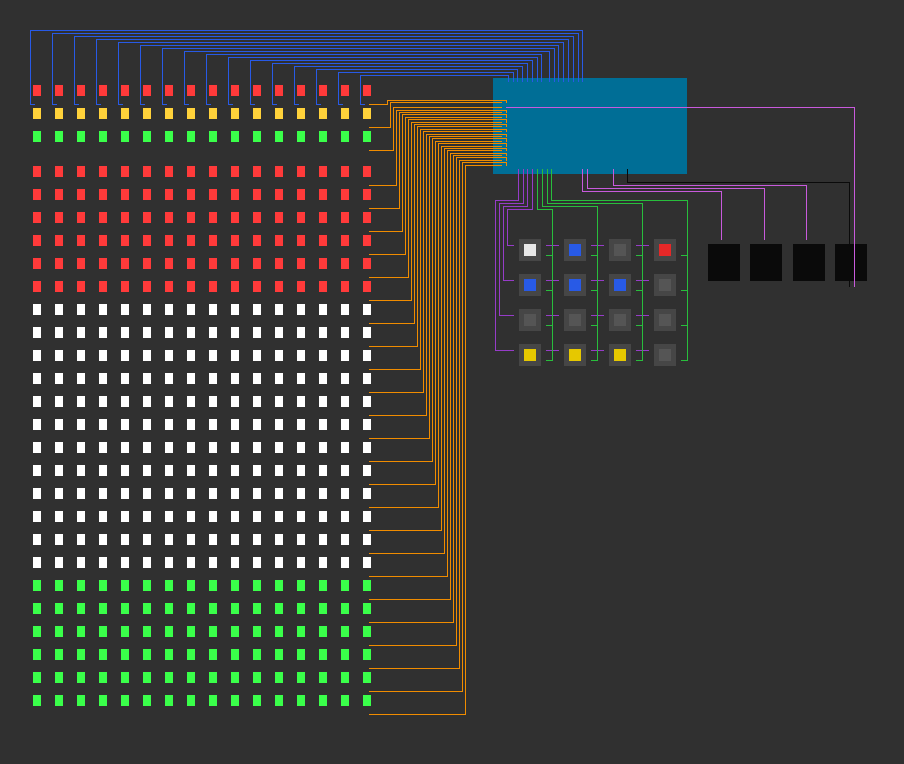
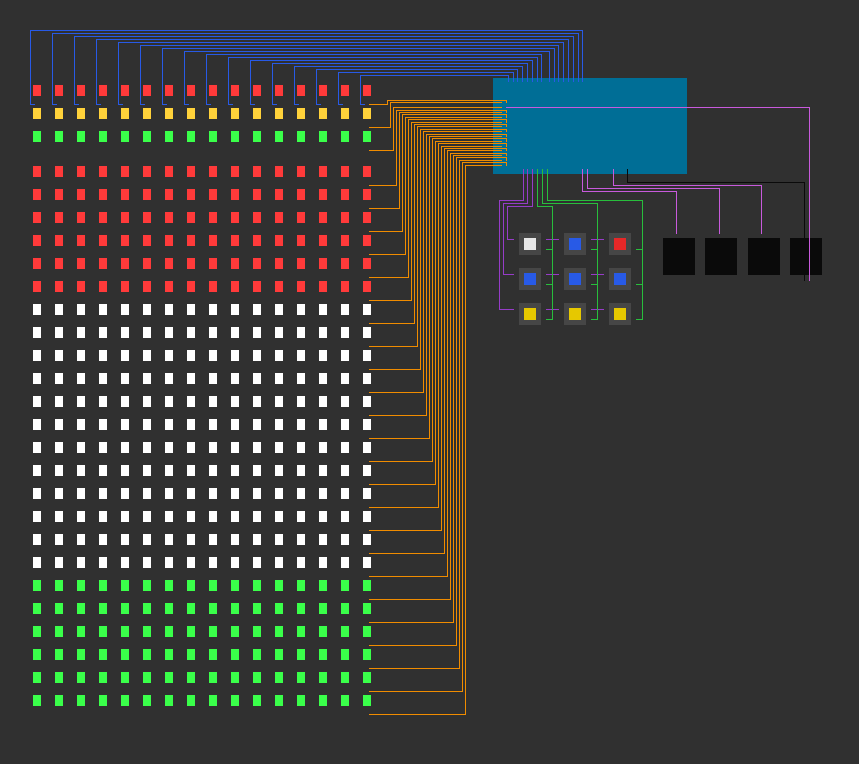
Keypad: 3 x 3, exactly the 9 keys the game uses
The 4 x 4 keypad had 7 spare keys. The generator now takes the keypad
size from its BUTTONS table: Q W R / A S D / P M B on rows 18-20 and
columns 15-17 (pins 21 and 14 are free). Circuit, pins.h, wiring diagram
and docs regenerated; wiring errors 0, crossings 0, PC tests pass.

Changed region(s): [[0.0303, 0.0301, 0.9686, 0.9332], [0.7567, 0.0903, 0.8172, 0.2408], [0.7264, 0.4516, 0.7567, 0.4817]]

diff --git a/tools/gen_circuit.py b/tools/gen_circuit.py
@@ -6,7 +6,8 @@ Builds the whole Wokwi circuit (diagram.json) from the tables below and writes t
 pin table for the sketch (pins.h), so the circuit and the code can never disagree.
 
   * 16 x 24 game screen + 3 status bars of single LEDs, wired as one row/column matrix
-  * 4 x 4 push-button keypad (every button also answers to a PC keyboard key)
+  * 3 x 3 push-button keypad: exactly the 9 keys the game uses (every button also answers
+    to a PC keyboard key)
   * 4 buzzers
 
 Layout: LED panel on the left, the Mega (turned 180 degrees) on the right with its
@@ -54,12 +55,13 @@ LED_GAMMA = '30'
 LED_FPS = '300'
 
 # Keypad, row by row: (label, PC keyboard key, button colour).
+# Q back, R fire / OK; W A S D move (W above S, like a keyboard); P pause, M sound, B light.
 BUTTONS = [
-    [('Q', 'q', 'white'), ('W', 'w', 'blue'), ('E', 'e', '#555555'), ('R', 'r', 'red')],
-    [('A', 'a', 'blue'), ('S', 's', 'blue'), ('D', 'd', 'blue'), ('F', 'f', '#555555')],
-    [('Z', 'z', '#555555'), ('X', 'x', '#555555'), ('C', 'c', '#555555'), ('V', 'v', '#555555')],
-    [('P', 'p', 'yellow'), ('M', 'm', 'yellow'), ('B', 'b', 'yellow'), ('H', 'h', '#555555')],
+    [('Q', 'q', 'white'), ('W', 'w', 'blue'), ('R', 'r', 'red')],
+    [('A', 'a', 'blue'), ('S', 's', 'blue'), ('D', 'd', 'blue')],
+    [('P', 'p', 'yellow'), ('M', 'm', 'yellow'), ('B', 'b', 'yellow')],
 ]
+KR, KC = len(BUTTONS), len(BUTTONS[0])               # keypad rows and columns
 
 # Visible wire colours by job (wires inside the LED panel are hidden).
 WIRE = {'row_bus': 'orange', 'col_bus': 'blue', 'key_row': 'purple', 'key_col': 'green',
@@ -140,8 +142,8 @@ ROW_PINS = [None] * TOTAL_ROWS
 for i, row in enumerate(PHYS_ROWS):
     ROW_PINS[row] = ROW_PIN_OF_PHYS[i]
 COL_PINS = ['A%d' % x for x in range(SCREEN_W)]      # column x -> Ax (PORTF / PORTK bit order)
-KEY_ROW_PINS = ['18', '19', '20', '21']
-KEY_COL_PINS = ['17', '16', '15', '14']
+KEY_ROW_PINS = ['18', '19', '20', '21'][:KR]
+KEY_COL_PINS = ['17', '16', '15', '14'][:KC]
 BUZZER_PINS = ['5', '6', '11', '46']                  # OC3A, OC4A, OC1A, OC5A
 BUZZER_TIMERS = ['Timer3 OC3A', 'Timer4 OC4A', 'Timer1 OC1A', 'Timer5 OC5A']
 
@@ -217,7 +219,7 @@ for i, row in enumerate(PHYS_ROWS):
 # --- keypad and buzzers under the Mega (wires come up into its lower header)
 BELOW = MY + MEGA_H                    # lower edge of the turned board
 KX, KPX, KPY = MX + 40, 90, 70
-BX, BPX = KX + 4 * KPX + 30, 85
+BX, BPX = KX + KC * KPX + 30, 85
 
 def fan_heights(items, top, step):
     """items: (lane_x, pin_x, key) of wires coming up from below. Returns a turn height per
@@ -232,30 +234,30 @@ def fan_heights(items, top, step):
 
 buz_top = BELOW + 16
 key_top = buz_top + LANE * 4 + 12
-KY = key_top + LANE * 8 + 30
+KY = key_top + LANE * (KR + KC) + 30
 BY = KY + 10
 
-for r in range(4):
-    for c in range(4):
+for r in range(KR):
+    for c in range(KC):
         label, key, colour = BUTTONS[r][c]
         part('wokwi-pushbutton', 'btn_%s' % label, KX + KPX * c, KY + KPY * r,
              {'color': colour, 'label': label, 'key': key})
-for r in range(4):                    # contact 1 of each button = its row line
-    for c in range(3):
+for r in range(KR):                   # contact 1 of each button = its row line
+    for c in range(KC - 1):
         wire('btn_%s:1.r' % BUTTONS[r][c][0], 'btn_%s:1.l' % BUTTONS[r][c + 1][0],
              WIRE['key_row'], [], 'link')
-for c in range(4):                    # contact 2 of each button = its column line
-    for r in range(3):
+for c in range(KC):                   # contact 2 of each button = its column line
+    for r in range(KR - 1):
         wire('btn_%s:2.r' % BUTTONS[r][c][0], 'btn_%s:2.r' % BUTTONS[r + 1][c][0],
              WIRE['key_col'], ['h11', '*', 'h11'], 'link')
 
 key_items = []                         # (lane, pin_x, key, src, pin, (x, y), first move, colour)
-for r in range(4):
+for r in range(KR):
     sx_, sy_ = KX + BTN_PINS['1.l'][0], KY + KPY * r + BTN_PINS['1.l'][1]
     lane = sx_ - 12 - 8 * r            # lower rows take outer lanes
     key_items.append((lane, mega_pin(KEY_ROW_PINS[r])[0], 'r%d' % r, 'btn_%s:1.l' % BUTTONS[r][0][0],
                       KEY_ROW_PINS[r], (sx_, sy_), mv('h', lane - sx_), WIRE['key_row']))
-for c in range(4):
+for c in range(KC):
     sx_, sy_ = KX + KPX * c + BTN_PINS['2.r'][0], KY + BTN_PINS['2.r'][1]
     key_items.append((sx_ + 11, mega_pin(KEY_COL_PINS[c])[0], 'c%d' % c, 'btn_%s:2.r' % BUTTONS[0][c][0],
                       KEY_COL_PINS[c], (sx_, sy_), 'h11', WIRE['key_col']))
@@ -357,8 +359,8 @@ def check_nets():
             pid = led_id(x, row)
             if mega_of.get(pid + ':A') != ROW_PINS[row] or mega_of.get(pid + ':C') != COL_PINS[x]:
                 errors += 1
-    for r in range(4):
-        for c in range(4):
+    for r in range(KR):
+        for c in range(KC):
             pid = 'btn_%s' % BUTTONS[r][c][0]
             if mega_of.get(pid + ':1.l') != KEY_ROW_PINS[r] or mega_of.get(pid + ':2.l') != KEY_COL_PINS[c]:
                 errors += 1
@@ -431,8 +433,8 @@ const uint8_t COL_PINS[SCREEN_W] = {{
   {arr(COL_PINS)}
 }};
 
-// ---- 4 x 4 push-button keypad: contact 1 = row line, contact 2 = column line
-const uint8_t KEY_ROWS = 4, KEY_COLS = 4;
+// ---- {KR} x {KC} push-button keypad: contact 1 = row line, contact 2 = column line
+const uint8_t KEY_ROWS = {KR}, KEY_COLS = {KC};
 const uint8_t KEY_ROW_PINS[KEY_ROWS] = {{ {arr(KEY_ROW_PINS)} }};
 const uint8_t KEY_COL_PINS[KEY_COLS] = {{ {arr(KEY_COL_PINS)} }};
 const char KEY_NAMES[KEY_ROWS][KEY_COLS] = {{

diff --git a/tools/draw_wiring.py b/tools/draw_wiring.py
@@ -65,8 +65,8 @@ text((MX + MW / 2, MY + 22), 'Arduino Mega 2560', F_HEAD, anchor='ma')
 headers = [  # (y, label, colour)
     (MY + 90, 'A0 - A15  -  16 LED columns (-)', BLUE),
     (MY + 200, 'pins %s  -  27 LED rows (+)' % pin_range(gc.ROW_PINS), ORANGE),
-    (MY + 330, 'pins 18-21  -  keypad rows', VIOLET),
-    (MY + 390, 'pins 14-17  -  keypad columns', GREEN),
+    (MY + 330, 'pins %s-%s  -  keypad rows' % (gc.KEY_ROW_PINS[0], gc.KEY_ROW_PINS[-1]), VIOLET),
+    (MY + 390, 'pins %s-%s  -  keypad columns' % (gc.KEY_COL_PINS[-1], gc.KEY_COL_PINS[0]), GREEN),
     (MY + 480, 'pins %s  -  buzzers' % ', '.join(gc.BUZZER_PINS), VIOLET),
     (MY + 545, 'GND  -  buzzers (-)', GREY),
 ]
@@ -107,24 +107,24 @@ text((LX, LY + 5 * P + 10),
 
 # ---------------------------------------------------------------- keypad
 KX, KY, KP = 1000, 150, 70
-text((KX, KY - 45), 'Keypad: 16 push buttons, 4 x 4', F_HEAD)
+text((KX, KY - 45), 'Keypad: %d push buttons, %d x %d' % (gc.KR * gc.KC, gc.KR, gc.KC), F_HEAD)
 labels = [b[0] for row in gc.BUTTONS for b in row]
-for r in range(4):
+for r in range(gc.KR):
     y = KY + 20 + r * KP
-    line([(KX - 30, y), (KX + 4 * KP - 20, y)], VIOLET, 2)
-    text((KX + 4 * KP - 10, y), 'row %d -> pin %s' % (r + 1, gc.KEY_ROW_PINS[r]), F_SMALL, VIOLET, 'lm')
-for c in range(4):
+    line([(KX - 30, y), (KX + gc.KC * KP - 20, y)], VIOLET, 2)
+    text((KX + gc.KC * KP - 10, y), 'row %d -> pin %s' % (r + 1, gc.KEY_ROW_PINS[r]), F_SMALL, VIOLET, 'lm')
+for c in range(gc.KC):
     x = KX + 20 + c * KP
-    line([(x + 18, KY), (x + 18, KY + 4 * KP + 10)], GREEN, 2)
-    text((x + 18, KY + 4 * KP + 14), 'pin %s' % gc.KEY_COL_PINS[c], F_SMALL, GREEN, 'ma')
-for r in range(4):
-    for c in range(4):
+    line([(x + 18, KY), (x + 18, KY + gc.KR * KP + 10)], GREEN, 2)
+    text((x + 18, KY + gc.KR * KP + 14), 'pin %s' % gc.KEY_COL_PINS[c], F_SMALL, GREEN, 'ma')
+for r in range(gc.KR):
+    for c in range(gc.KC):
         x, y = KX + 20 + c * KP, KY + 20 + r * KP
         d.rounded_rectangle((x - 16, y - 16, x + 16, y + 16), 5, fill=(70, 70, 70), outline=FG)
-        text((x, y), labels[r * 4 + c], F_HEAD, anchor='mm')
+        text((x, y), labels[r * gc.KC + c], F_HEAD, anchor='mm')
 line([(KX - 30, KY + 20), (KX - 30, MY + 330), (MX + MW, MY + 330)], VIOLET, 6)
-line([(KX + 38, KY + 4 * KP + 40), (KX + 38, MY + 390), (MX + MW, MY + 390)], GREEN, 6)
-text((KX + 60, KY + 4 * KP + 45),
+line([(KX + 38, KY + gc.KR * KP + 40), (KX + 38, MY + 390), (MX + MW, MY + 390)], GREEN, 6)
+text((KX + 60, KY + gc.KR * KP + 45),
      'A button connects its row to its column.\n'
      'The Mega drives one row LOW at a time and\n'
      'reads the columns: a LOW column = that key\n'
@@ -153,7 +153,7 @@ text((BXp, BYp + 140),
 text((60, 660), 'Thick line = a bundle of separate wires side by side\n'
                 '(one wire per LED row, LED column, key row or key column).', F, DIM)
 
-text((30, H - 40), 'Parts: 1 Arduino Mega, 432 LEDs, 16 push buttons, 4 buzzers. No resistors, no modules, no libraries.',
+text((30, H - 40), 'Parts: 1 Arduino Mega, 432 LEDs, 9 push buttons, 4 buzzers. No resistors, no modules, no libraries.',
      F, DIM)
 out = Path(__file__).resolve().parents[1] / 'docs' / 'media' / 'wiring.png'
 img.save(out)

diff --git a/void_runner/input.h b/void_runner/input.h
@@ -1,7 +1,7 @@
 /*
- * input.h -- the 4 x 4 push-button keypad.
+ * input.h -- the 3 x 3 push-button keypad (the 9 keys of the game).
  *
- * Same method as the course: drive one row LOW and read the four columns
+ * Same method as the course: drive one row LOW and read the three columns
  * (INPUT_PULLUP, so a pressed key reads LOW). Rows that are not being read are set to
  * INPUT instead of HIGH: with two keys of one column pressed, a HIGH and a LOW output
  * would otherwise be shorted together through the buttons.
@@ -32,7 +32,7 @@ bool keyPressed(char key) { return keysPressed & keyBit(key); }
 // Forgets this picture's key presses (called at the end of every picture).
 void inputEndFrame() { keysPressed = 0; }
 
-// Reads the whole keypad once: drives one row LOW at a time and reads the four columns.
+// Reads the whole keypad once: drives one row LOW at a time and reads the three columns.
 // Returns one bit per key that is down (no debouncing here).
 uint16_t readKeys() {
   uint16_t mask = 0;

diff --git a/void_runner/pins.h b/void_runner/pins.h
@@ -24,15 +24,14 @@ const uint8_t COL_PINS[SCREEN_W] = {
   A0, A1, A2, A3, A4, A5, A6, A7, A8, A9, A10, A11, A12, A13, A14, A15
 };
 
-// ---- 4 x 4 push-button keypad: contact 1 = row line, contact 2 = column line
-const uint8_t KEY_ROWS = 4, KEY_COLS = 4;
-const uint8_t KEY_ROW_PINS[KEY_ROWS] = { 18, 19, 20, 21 };
-const uint8_t KEY_COL_PINS[KEY_COLS] = { 17, 16, 15, 14 };
+// ---- 3 x 3 push-button keypad: contact 1 = row line, contact 2 = column line
+const uint8_t KEY_ROWS = 3, KEY_COLS = 3;
+const uint8_t KEY_ROW_PINS[KEY_ROWS] = { 18, 19, 20 };
+const uint8_t KEY_COL_PINS[KEY_COLS] = { 17, 16, 15 };
 const char KEY_NAMES[KEY_ROWS][KEY_COLS] = {
-  {'Q', 'W', 'E', 'R'},
-  {'A', 'S', 'D', 'F'},
-  {'Z', 'X', 'C', 'V'},
-  {'P', 'M', 'B', 'H'}
+  {'Q', 'W', 'R'},
+  {'A', 'S', 'D'},
+  {'P', 'M', 'B'}
 };
 
 // ---- buzzers, each on the "A" output of its own 16-bit timer

diff --git a/docs/SPEC.md b/docs/SPEC.md
@@ -18,10 +18,10 @@ Pictures of the real screens (rendered from the running code): `docs/media/` –
 |---|---|---|
 | Arduino Mega 2560 | 1 | – |
 | Single LEDs (`wokwi-led`), one matrix | 432 | 16 × 24 game screen + 3 status bars of 16. 27 row lines (anodes) on pins 22–45 and 47–49, 16 column lines (cathodes) on A0–A15 |
-| Push buttons (`wokwi-pushbutton`), 4 × 4 matrix | 16 | rows on 18–21, columns on 14–17 |
+| Push buttons (`wokwi-pushbutton`), 3 × 3 matrix | 9 | rows on 18–20, columns on 15–17 |
 | Buzzers (`wokwi-buzzer`) | 4 | pins 5, 6, 11, 46 (Timer3, Timer4, Timer1, Timer5 outputs) |
 
-- 55 of the Mega's 68 usable pins (27 + 16 + 8 + 4), each header used for one job: double header = LED rows,
+- 53 of the Mega's 68 usable pins (27 + 16 + 6 + 4), each header used for one job: double header = LED rows,
   analog header = LED columns, communication header = keypad, PWM header = buzzers. The fourth
   buzzer is on pin 46 of the double header, because that is Timer5's output (the LED row that
   was there moved to pin 49); it is the last free timer – Timer0 runs `millis()`, Timer2 the screen.
@@ -59,15 +59,15 @@ The keypad buttons are labelled like keyboard keys and also react to the PC keyb
 (click an empty spot of the circuit first; use the English keyboard layout).
 
 ```
-┌───┬───┬───┬───┐
-│ Q │ W │ E │ R │    W A S D  move
-├───┼───┼───┼───┤    R        fire (hold = auto-fire) · OK in menus
-│ A │ S │ D │ F │    Q        back (in the game: pause)
-├───┼───┼───┼───┤    P        pause / continue
-│ Z │ X │ C │ V │    M        sound on/off (any screen, saved)
-├───┼───┼───┼───┤    B        brightness 100 / 50 / 20 % (any screen, saved)
-│ P │ M │ B │ H │    E F Z X C V H  spare
-└───┴───┴───┴───┘
+┌───┬───┬───┐
+│ Q │ W │ R │    W A S D  move
+├───┼───┼───┤    R        fire (hold = auto-fire) · OK in menus
+│ A │ S │ D │    Q        back (in the game: pause)
+├───┼───┼───┤    P        pause / continue
+│ P │ M │ B │    M        sound on/off (any screen, saved)
+└───┴───┴───┘    B        brightness 100 / 50 / 20 % (any screen, saved)
+
+3 × 3 = exactly the 9 keys the game uses (it was 4 × 4 with 7 spare keys until 29 Oct).
 ```
 
 **Firing (agreed):** press R → one bullet; keep holding → one more every 0.2 s (a chirp when

diff --git a/CLAUDE.md b/CLAUDE.md
@@ -36,7 +36,7 @@ wokwi.com) – there is no real hardware. Design spec: `docs/SPEC.md`. User-faci
   `visible wire crossings: 0`).
 - 432 LEDs = 16 × 24 game screen + 3 status bars (16 each), one matrix: 27 rows (anodes,
   pins 22–45 + 47–49), 16 columns (cathodes, A0–A15; column x = pin Ax = PORTF/PORTK bit).
-  Keypad 4 × 4: rows 18–21, columns 14–17. Buzzers on 5, 6, 11, 46 (Timer3/4/1/5 OCnA) =
+  Keypad 3 × 3 (exactly the 9 keys used; 4 × 4 until 29 Oct): rows 18–20, columns 15–17. Buzzers on 5, 6, 11, 46 (Timer3/4/1/5 OCnA) =
   lead, bass, SFX (SFX_VOICE = 2), rhythm guitar. No 5th timer is free (Timer0 millis,
   Timer2 scan); buzzer 4 is not turned (180°) so its wire runs up beside the board.
 - LED colours: dark hex body + coloured `lightColor` (zones red/white/green, status bars
@@ -48,7 +48,8 @@ wokwi.com) – there is no real hardware. Design spec: `docs/SPEC.md`. User-faci
   on/off (use `frameNo & 8`), "dim on alternate frames" no longer looks dim, and PWM
   dimming (B key / LITE) is barely visible in Wokwi (90 → 85 %). The off-LED look (grey
   leads, white highlights, body colour at 65 % opacity) is fixed by Wokwi's LED drawing.
-- Keypad labels are keyboard letters (Q W E R / A S D F / Z X C V / P M B H), `key` attr set.
+- Keypad labels are keyboard letters (Q W R / A S D / P M B), `key` attr set; the size comes
+  from the `BUTTONS` table in gen_circuit.py (code, tests and wiring drawing follow it).
 
 ## Code (`void_runner/`, header-per-module, one translation unit)
 `config.h` settings, Screen enum, difficulty tables · `display.h` scan ISR, drawing, text,

diff --git a/README.md b/README.md
@@ -1,7 +1,7 @@
 # VOID RUNNER
 
 A vertical space shooter for the Arduino Mega: a 16 × 24 screen of single LEDs plus three
-status bars, a 4 × 4 keypad of push buttons and four buzzers (lead, bass, rhythm guitar,
+status bars, a 3 × 3 keypad of push buttons and four buzzers (lead, bass, rhythm guitar,
 sound effects). Three phases, three bosses,
 three ships. Design and rules: [docs/SPEC.md](docs/SPEC.md). Pictures and animations of the
 real screens: [docs/media/](docs/media/).
